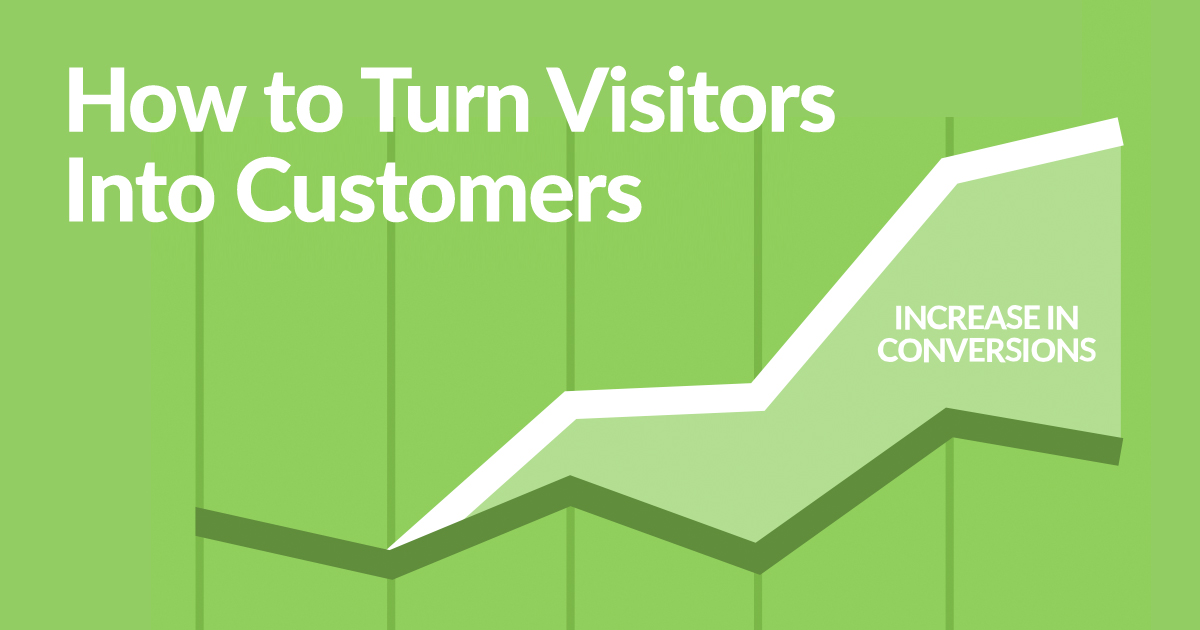
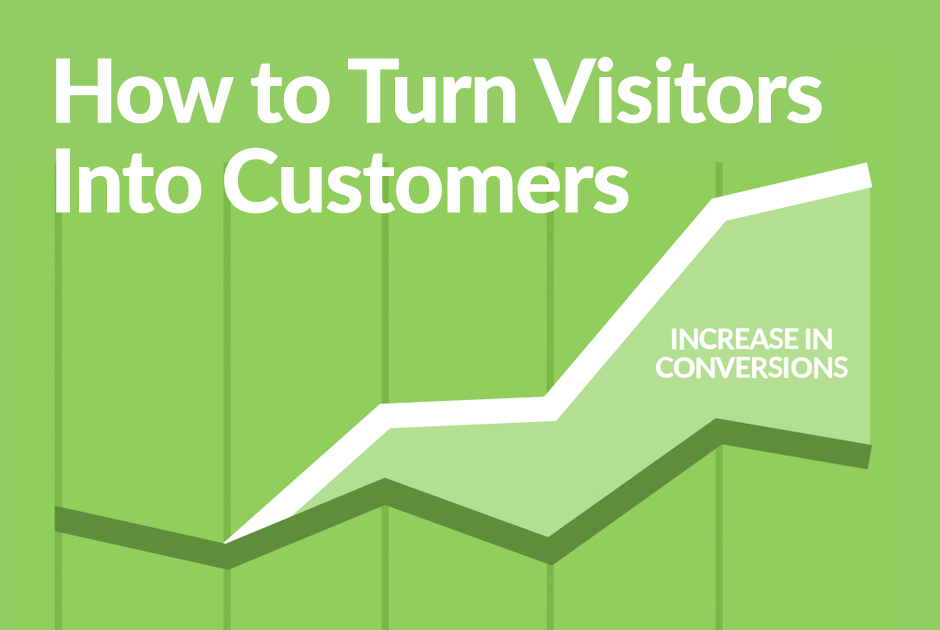
Add social images to home, convert

diff --git a/new/conversion-rate-optimization/index.html b/new/conversion-rate-optimization/index.html
@@ -20,7 +20,7 @@ permalink: /conversion-rate-optimization/
   <meta property="og:url" content="http://fairheadcreative.com/conversion-rate-optimization/" />
   <meta property="og:image" content="http://fairheadcreative.com/new/images/convert-facebook.jpg" />
   <meta property="og:image:type" content="image/jpeg" />
-  <meta property="og:image:width" content="1200" />
+  <meta property="og:image:width" content="940" />
   <meta property="og:image:height" content="630" />
   <meta property="og:description" content="This guide shows you how we routinely increase website conversions 150-300%." />
   <meta name="twitter:card" content="summary_large_image">
